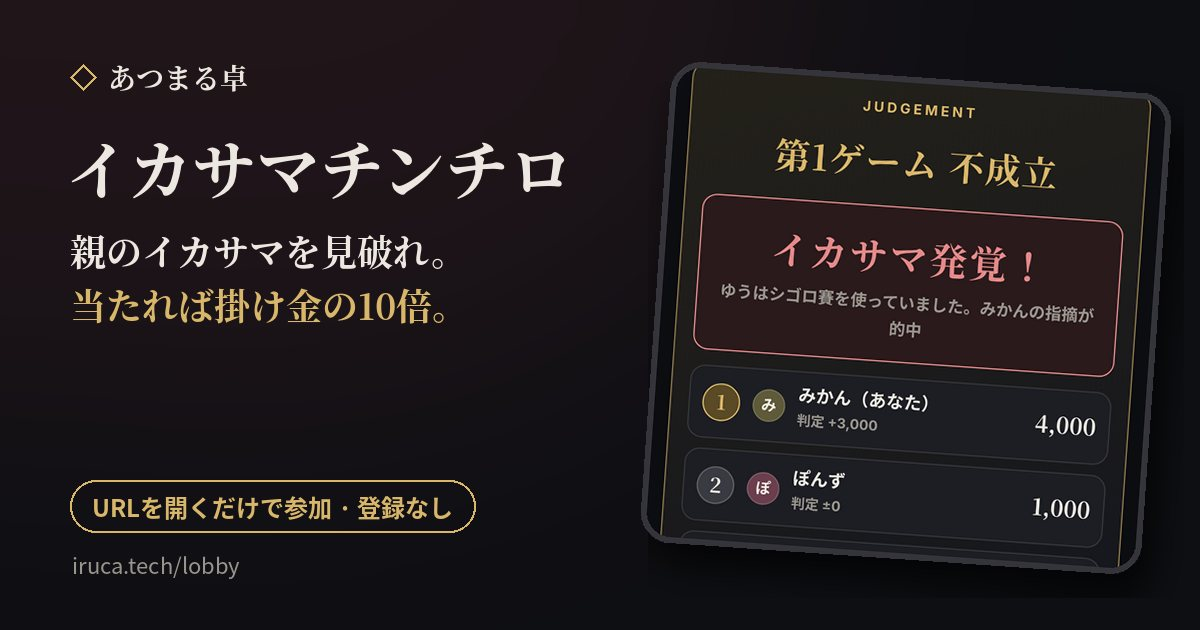
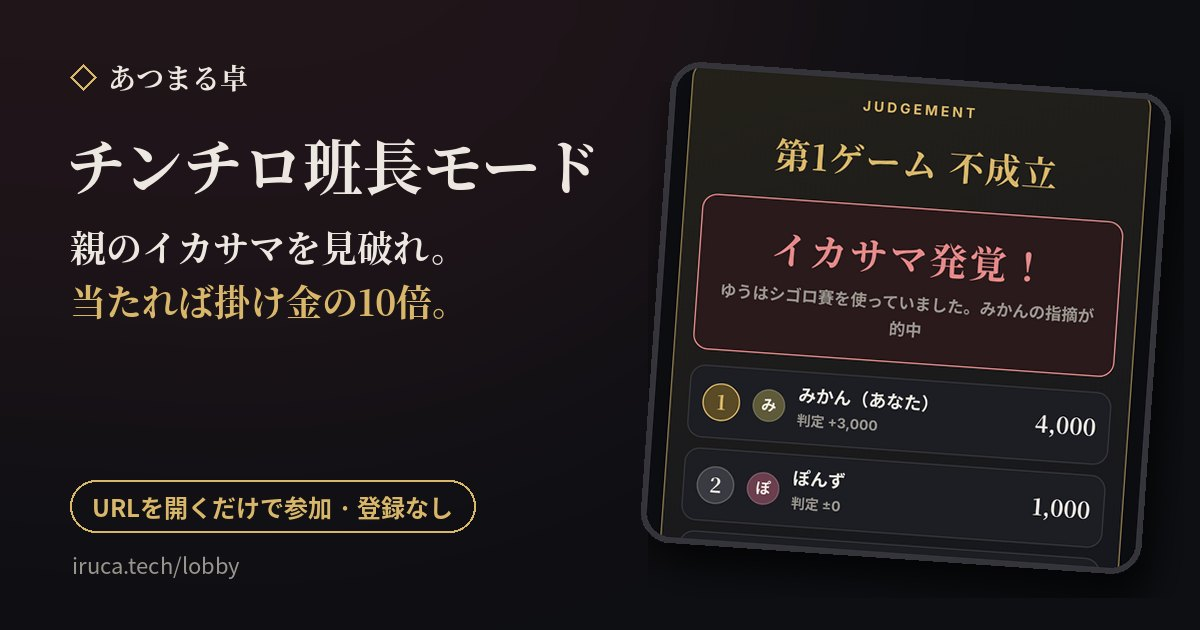
Stack game variants and rename cheat mode to hancho

Changed region(s): [[0.0617, 0.2111, 0.4933, 0.3317], [0.0617, 0.4524, 0.37, 0.5127], [0.0617, 0.3619, 0.37, 0.4222]]

diff --git a/public/app.js b/public/app.js
@@ -76,7 +76,7 @@ const GAME_ICONS={
 };
 // Families shown top to bottom. Add a new game here (and in games.js) to grow the menu.
 const GAME_MENU=[
- {key:'chinchiro',name:'チンチロ',icon:'dice',desc:'サイコロ3つの役で勝負。配信者が指名した最大4人で卓を囲む。',variants:[['chinchiro-rotation','親回り','全員が1回ずつ親'],['chinchiro-fixed','親固定','配信者がずっと親・1回'],['chinchiro-cheat','イカサマあり','親固定・シゴロ賽OK']]},
+ {key:'chinchiro',name:'チンチロ',icon:'dice',desc:'サイコロ3つの役で勝負。配信者が指名した最大4人で卓を囲む。',variants:[['chinchiro-rotation','親回り','全員が1回ずつ親'],['chinchiro-fixed','親固定','配信者がずっと親・1回'],['chinchiro-cheat','班長','親固定・シゴロ賽あり']]},
  {key:'kotoba',name:'ことばならべ',icon:'line',desc:'数字は言わずに、お題に沿った言葉だけで大きさ順に並べる協力ゲーム。最大8人、並べるのは配信者。',variants:[['kotoba','','']]},
  {key:'hitokoto',name:'ひとこと演技',icon:'voice',desc:'配信者がひとことを演じ、リスナーは6つの場面のどれかを伏せて当てる。入室中の全員が参加。',variants:[['hitokoto','','']]},
  {key:'highlow',name:'ハイ＆ロー',icon:'card',desc:'配信者がカードをめくり、入室中のリスナー全員が次のカードに賭ける。',variants:[['highlow','ノーマル','シンプルな絵札'],['highlow-bunny','バニー','絵札がバニーのイラスト']]}
@@ -95,7 +95,7 @@ function rulesHtml(kind,fixed){
   ?`<section class="card rules"><div class="card-head"><h2>ルール</h2><span>ひとこと演技</span></div><ol class="note"><li>配信者にだけ、ひとことと6つの場面のうち<b>担当の1つ</b>が見えます。</li><li>配信者がその場面のつもりで、配信でひとことを演じます。</li><li>受付が始まったら、リスナーは<b>45秒以内</b>にどの場面かを1つ選びます。ほかの人の回答は締め切りまで見えません。</li><li>全員の回答と正解を同時に公開。正解数と正答率がたまっていきます。</li></ol></section>`
   :kind==='highlow'
   ?`<section class="card rules"><div class="card-head"><h2>ルール</h2><span>ハイ＆ロー</span></div><div class="roles"><span>ハイ/ロー的中 <b>2倍戻り</b></span><span>同じ数字 <b>返却</b></span><span>はずれ <b>没収</b></span><span>色も的中 <b>さらに2倍</b></span><span>色はずれ <b>没収</b></span></div><p class="note">次のカードが今より上（ハイ）か下（ロー）かに、0点から100点単位で賭ける。色の予想は任意。Aが一番弱くKが一番強い。ハイかローを選べば0点でも参加、選ばなければ自動で「ステイ」（このカードは不参加）。配信者がめくるまでベットは変更・ステイに戻せる。<br>連勝：当たる（色を選んだら色も当たる）と+1、外れると0に戻る。ステイした回と、色なしで同じ数字だった回は数えない。</p></section>`
-  :kind==='cheat'?`<section class="card rules"><div class="card-head"><h2>ルール</h2><span>チンチロ イカサマあり</span></div><div class="roles"><span>ピンゾロ <b>×5</b></span><span>ゾロ目 <b>×3</b></span><span>シゴロ <b>×2</b></span><span>出目 <b>×1</b></span><span>ヒフミ <b>2倍払い</b></span><span>目なし <b>3回まで</b></span></div><p class="note">配信者がずっと親。親は普通のサイコロか、4・5・6しか出ない「シゴロ賽」を選んで振れる。子はゲーム中いつでも「イカサマを指摘」でき、その時点でゲームは不成立になり判定タイムへ。<br>当たり：親が指摘した子に掛け金の10倍を払う。<br>外れ：指摘した子が、ほかの子それぞれに（自分の掛け金＋その子の掛け金）×2を払い、親にもその合計を払う。</p></section>`
+  :kind==='cheat'?`<section class="card rules"><div class="card-head"><h2>ルール</h2><span>チンチロ 班長モード</span></div><div class="roles"><span>ピンゾロ <b>×5</b></span><span>ゾロ目 <b>×3</b></span><span>シゴロ <b>×2</b></span><span>出目 <b>×1</b></span><span>ヒフミ <b>2倍払い</b></span><span>目なし <b>3回まで</b></span></div><p class="note">配信者がずっと親。親は普通のサイコロか、4・5・6しか出ない「シゴロ賽」を選んで振れる。子はゲーム中いつでも「イカサマを指摘」でき、その時点でゲームは不成立になり判定タイムへ。<br>当たり：親が指摘した子に掛け金の10倍を払う。<br>外れ：指摘した子が、ほかの子それぞれに（自分の掛け金＋その子の掛け金）×2を払い、親にもその合計を払う。</p></section>`
   :`<section class="card rules"><div class="card-head"><h2>ルール</h2><span>チンチロ ${fixed?'親固定':'親回り'}</span></div><div class="roles"><span>ピンゾロ <b>×5</b></span><span>ゾロ目 <b>×3</b></span><span>シゴロ <b>×2</b></span><span>出目 <b>×1</b></span><span>ヒフミ <b>2倍払い</b></span><span>目なし <b>3回まで</b></span></div><p class="note">${fixed?'配信者が親。子は配信者とだけ精算して1ゲーム。':'親と順番を抽選し、全員が親を務めたら1ゲーム。'}掛け金・投擲・次への進行はそれぞれ20秒で自動。0点以下でもゲーム中は100点で続行し、終了後にリスナーは待機所へ戻ります。</p></section>`;
 }
 const DEFAULT_TITLES={chinchiro:'今夜のチンチロ部屋','chinchiro-rotation':'今夜のチンチロ部屋','chinchiro-fixed':'今夜のチンチロ部屋',highlow:'今夜のハイ＆ロー','highlow-bunny':'今夜のハイ＆ロー',kotoba:'今夜のことばならべ',hitokoto:'今夜のひとこと演技'};
@@ -240,7 +240,7 @@ function render(){
 
  app.innerHTML=`<header class="topbar"><a class="brand" href="./">${icon('mark')}<span>あつまる卓</span></a><div class="top-actions"><button class="icon-btn" data-share aria-label="招待URLを共有">${icon('share')}</button><button class="icon-btn ${menuOpen?'active':''}" data-menu aria-label="メニュー" aria-expanded="${menuOpen}">${icon('menu')}</button></div></header>${menu}
  <section class="room-head"><div class="chips"><span class="room-id">ROOM ${esc(s.id)}</span><span class="phase ${locked?'live':''}">${phaseNames[s.phase]||s.phase}</span><span class="counts">入室 ${s.players.filter(p=>p.online&&!p.demo).length} · 観戦 ${watchers.filter(p=>p.online&&!p.demo).length}</span></div>
-  <h1>${esc(s.title)}</h1><p>${s.cheatMode?'親固定・イカサマあり':fixed?'親固定':'親回り'}${s.gameNumber?` · 第${s.gameNumber}ゲーム`:''}${locked&&!fixed?` · ${s.round}/${s.totalRounds}ラウンド`:''}${s.isHost?' · あなたが配信者':''}</p></section>
+  <h1>${esc(s.title)}</h1><p>${s.cheatMode?'班長モード':fixed?'親固定':'親回り'}${s.gameNumber?` · 第${s.gameNumber}ゲーム`:''}${locked&&!fixed?` · ${s.round}/${s.totalRounds}ラウンド`:''}${s.isHost?' · あなたが配信者':''}</p></section>
  <div class="layout"><div class="main-col">${result}${stage}${locked?lastLog:''}${seats}${rulesHtml(cheat?'cheat':'chinchiro',fixed)}${invite}${lobbySeats}</div><aside class="side-col">${waiting}${rules}</aside></div>
  <footer class="foot">あつまる卓 · 集まって、囲んで、盛り上がる。</footer>`;
  updateTimer();animateDice();
@@ -542,7 +542,7 @@ function introKind(s){return s.gameType==='hitokoto'?'hitokoto':s.gameType==='hi
 function showIntro(s){
  const host=s.isHost,kind=introKind(s),lines=INTRO[host?'host':'listener'][kind],me=s.players.find(p=>p.id===s.me);
  const canWant=!host&&['chinchiro','cheat','kotoba'].includes(kind)&&!me?.want;
- const names={chinchiro:'チンチロ',cheat:'チンチロ（イカサマあり）',highlow:'ハイ＆ロー',kotoba:'ことばならべ',hitokoto:'ひとこと演技'};
+ const names={chinchiro:'チンチロ',cheat:'チンチロ（班長モード）',highlow:'ハイ＆ロー',kotoba:'ことばならべ',hitokoto:'ひとこと演技'};
  const box=$('#intro');
  box.innerHTML=`<div class="intro-card card" role="dialog" aria-modal="true" aria-labelledby="intro-title"><p class="eyebrow">${host?'配信者のあなたへ':'ようこそ'}</p><h2 id="intro-title">${esc(names[kind])}</h2><ul>${lines.map(t=>`<li>${esc(t)}</li>`).join('')}</ul>
   ${canWant?'<button class="btn primary big" data-intro="want">参加希望を出して入る</button><button class="btn big" data-intro="watch">観戦で入る</button>':'<button class="btn primary big" data-intro="ok">OK</button>'}</div>`;

diff --git a/public/style.css b/public/style.css
@@ -308,12 +308,13 @@ div.game-row{cursor:default}
 .game-text{display:flex;flex-direction:column;gap:2px;min-width:0}
 .game-text strong{font-family:var(--serif);font-size:17px;display:flex;align-items:center;gap:8px;flex-wrap:wrap}
 .game-text small{font-size:12px;color:var(--muted);line-height:1.55}
-.variants{grid-column:2;display:grid;grid-template-columns:1fr 1fr;gap:6px;margin-top:6px}
-.variant{position:relative;display:block;min-height:48px;padding:0;border:0;background:none;color:inherit;font:inherit;text-align:left;cursor:pointer}
+.variants{grid-column:2;display:flex;flex-direction:column;gap:5px;margin-top:6px}
+.variant{position:relative;display:block;min-height:36px;padding:0;border:0;background:none;color:inherit;font:inherit;text-align:left;cursor:pointer}
 .variant input{position:absolute;opacity:0;inset:0;cursor:pointer}
-.variant span{display:flex;flex-direction:column;justify-content:center;height:100%;padding:6px 10px;border:1px solid var(--line-2);border-radius:10px;background:var(--panel-2)}
-.variant b{font-size:14px}
-.variant small{font-size:11px;color:var(--muted)}
+.variant span{display:flex;align-items:center;gap:6px;height:100%;min-height:36px;padding:5px 10px;border:1px solid var(--line-2);border-radius:10px;background:var(--panel-2)}
+.variant b{font-size:14px;flex-shrink:0}
+.variant b::after{content:'|';margin-left:6px;font-weight:400;opacity:.45}
+.variant small{font-size:11.5px;color:var(--muted);min-width:0;white-space:nowrap;overflow:hidden;text-overflow:ellipsis}
 .variant input:checked+span,.variant.on span{border-color:var(--gold);background:var(--gold);color:var(--gold-ink)}
 .variant input:checked+span small,.variant.on span small{color:var(--gold-ink)}
 .variant input:focus-visible+span{outline:2px solid var(--gold);outline-offset:2px}
@@ -336,7 +337,7 @@ div.game-row{cursor:default}
 .hl-past .note{grid-column:1/-1}
 
 /* ---------- イカサマあり ---------- */
-.variants{grid-template-columns:repeat(auto-fit,minmax(92px,1fr))}
+
 .cheat-roll{display:flex;flex-direction:column;gap:8px}
 .btn.loaded{background:#2A1A1C;border-color:#A8434B;color:#F1B8B8}
 .btn.danger{background:transparent;border:1px solid var(--danger);color:#F1B8B8}

diff --git a/public/games.js b/public/games.js
@@ -1,7 +1,7 @@
 export const GAMES=Object.freeze([
  {id:'chinchiro-fixed',name:'チンチロ（親固定）',description:'ホストが親。全員の出目を精算して1ゲーム。',dealer:'host'},
  {id:'chinchiro-rotation',name:'チンチロ（親回り）',description:'親と順番を抽選。全員が親を務めて1ゲーム。',dealer:'rotation'},
- {id:'chinchiro-cheat',name:'チンチロ（親固定・イカサマあり）',description:'配信者が親。親はシゴロ賽を使える。子はいつでもイカサマを指摘できる。',dealer:'host',cheat:true},
+ {id:'chinchiro-cheat',name:'チンチロ（班長モード）',description:'配信者が親。親はシゴロ賽を使える。子はいつでもイカサマを指摘できる。',dealer:'host',cheat:true},
  {id:'kotoba',name:'ことばならべ',description:'数字は言わずに、お題に沿った言葉だけで小さい順に並べる協力ゲーム。',dealer:'host',kind:'kotoba'},
  {id:'hitokoto',name:'ひとこと演技',description:'配信者がひとことを演じ、リスナーがどの場面かを当てる。正解数と正答率を競う。',dealer:'host',kind:'hitokoto'},
  {id:'highlow',name:'ハイ＆ロー',description:'配信者がカードをめくり、リスナー全員が次のカードに賭ける。',dealer:'host',kind:'highlow'},
